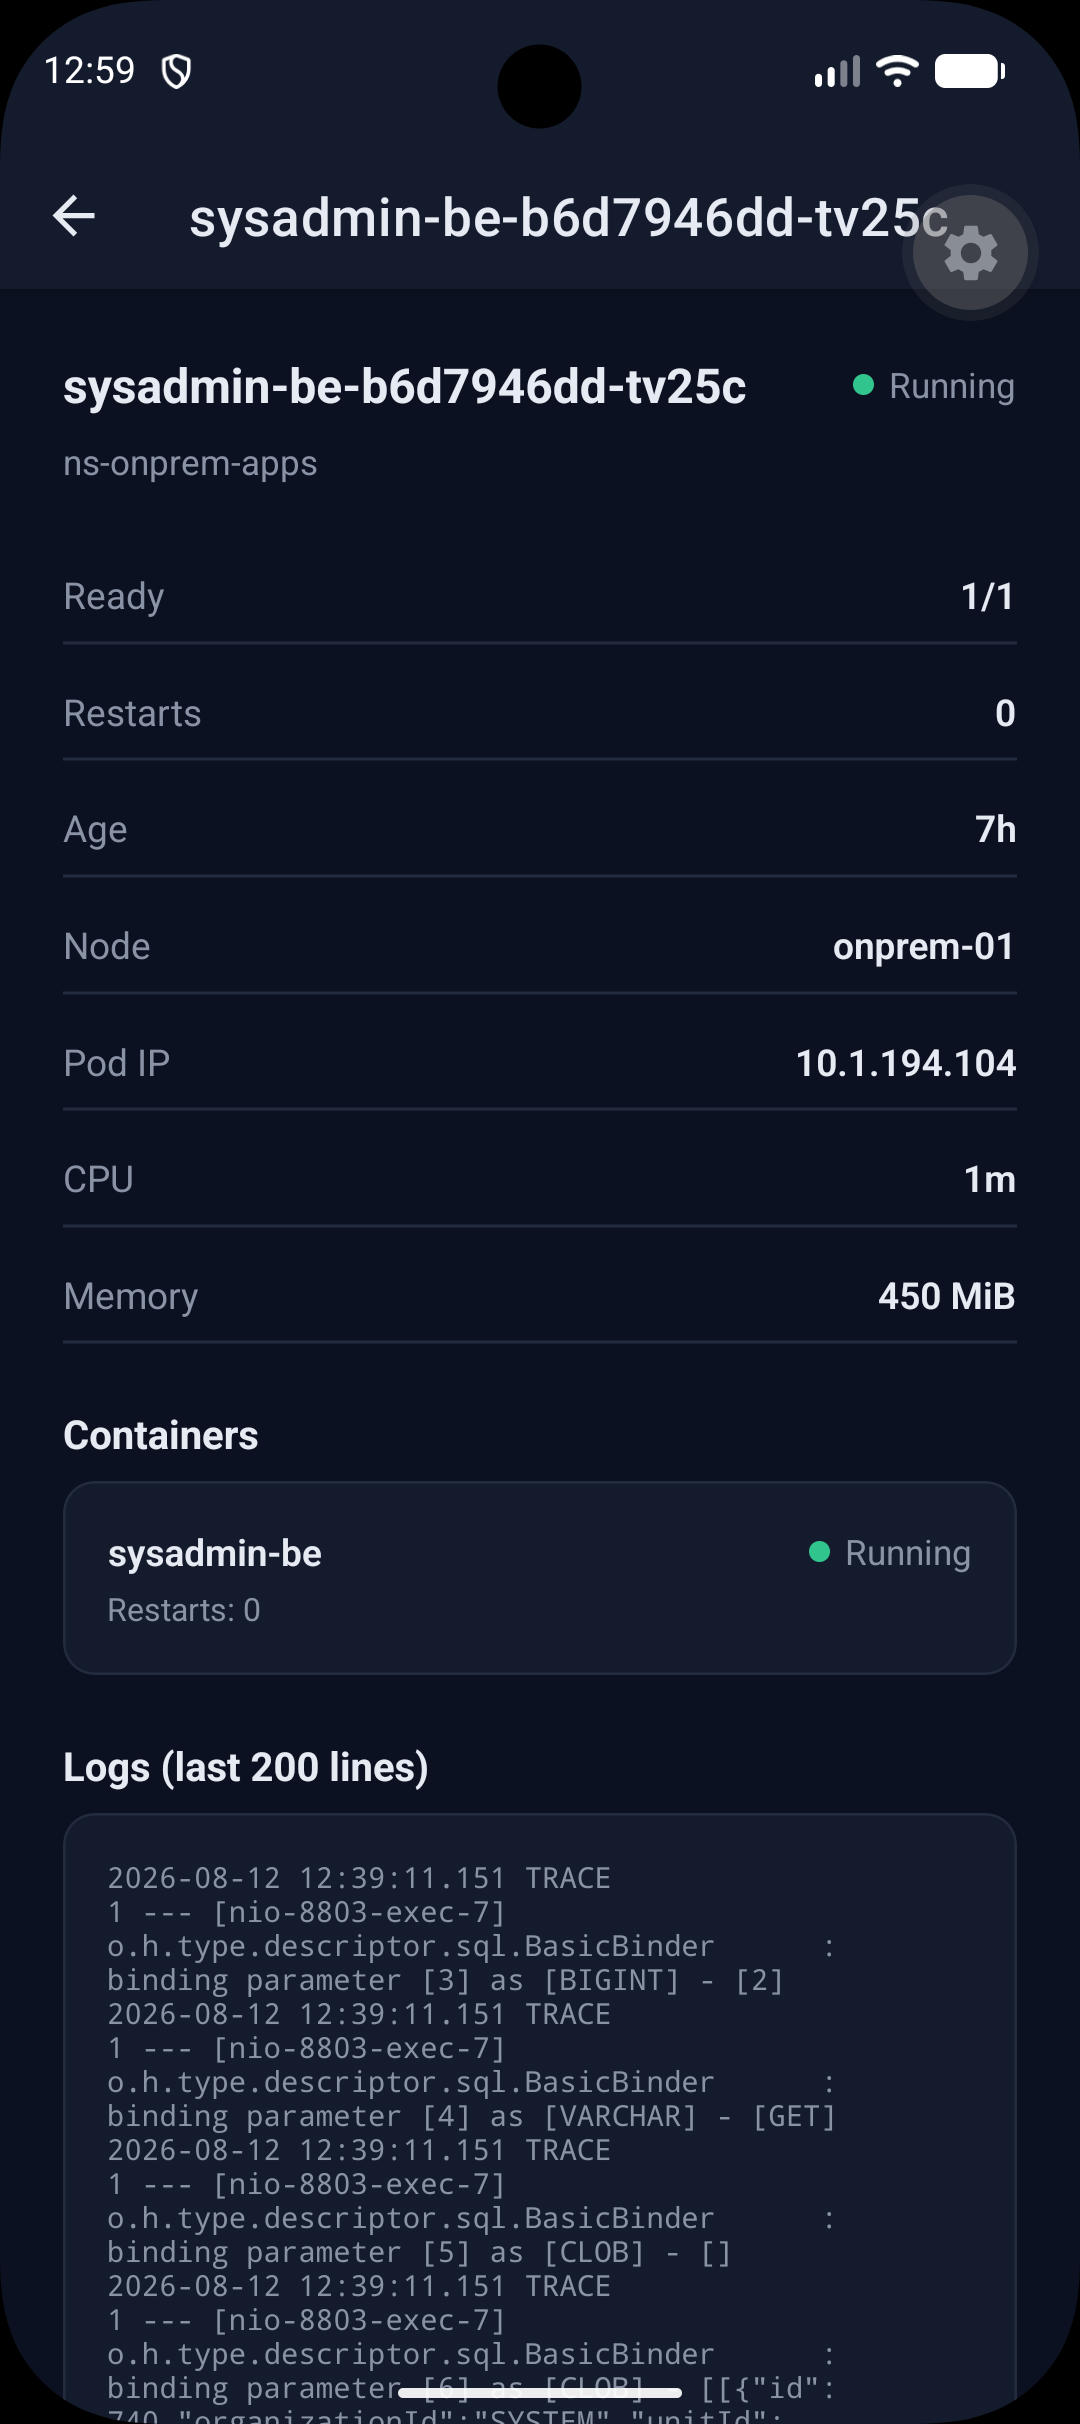
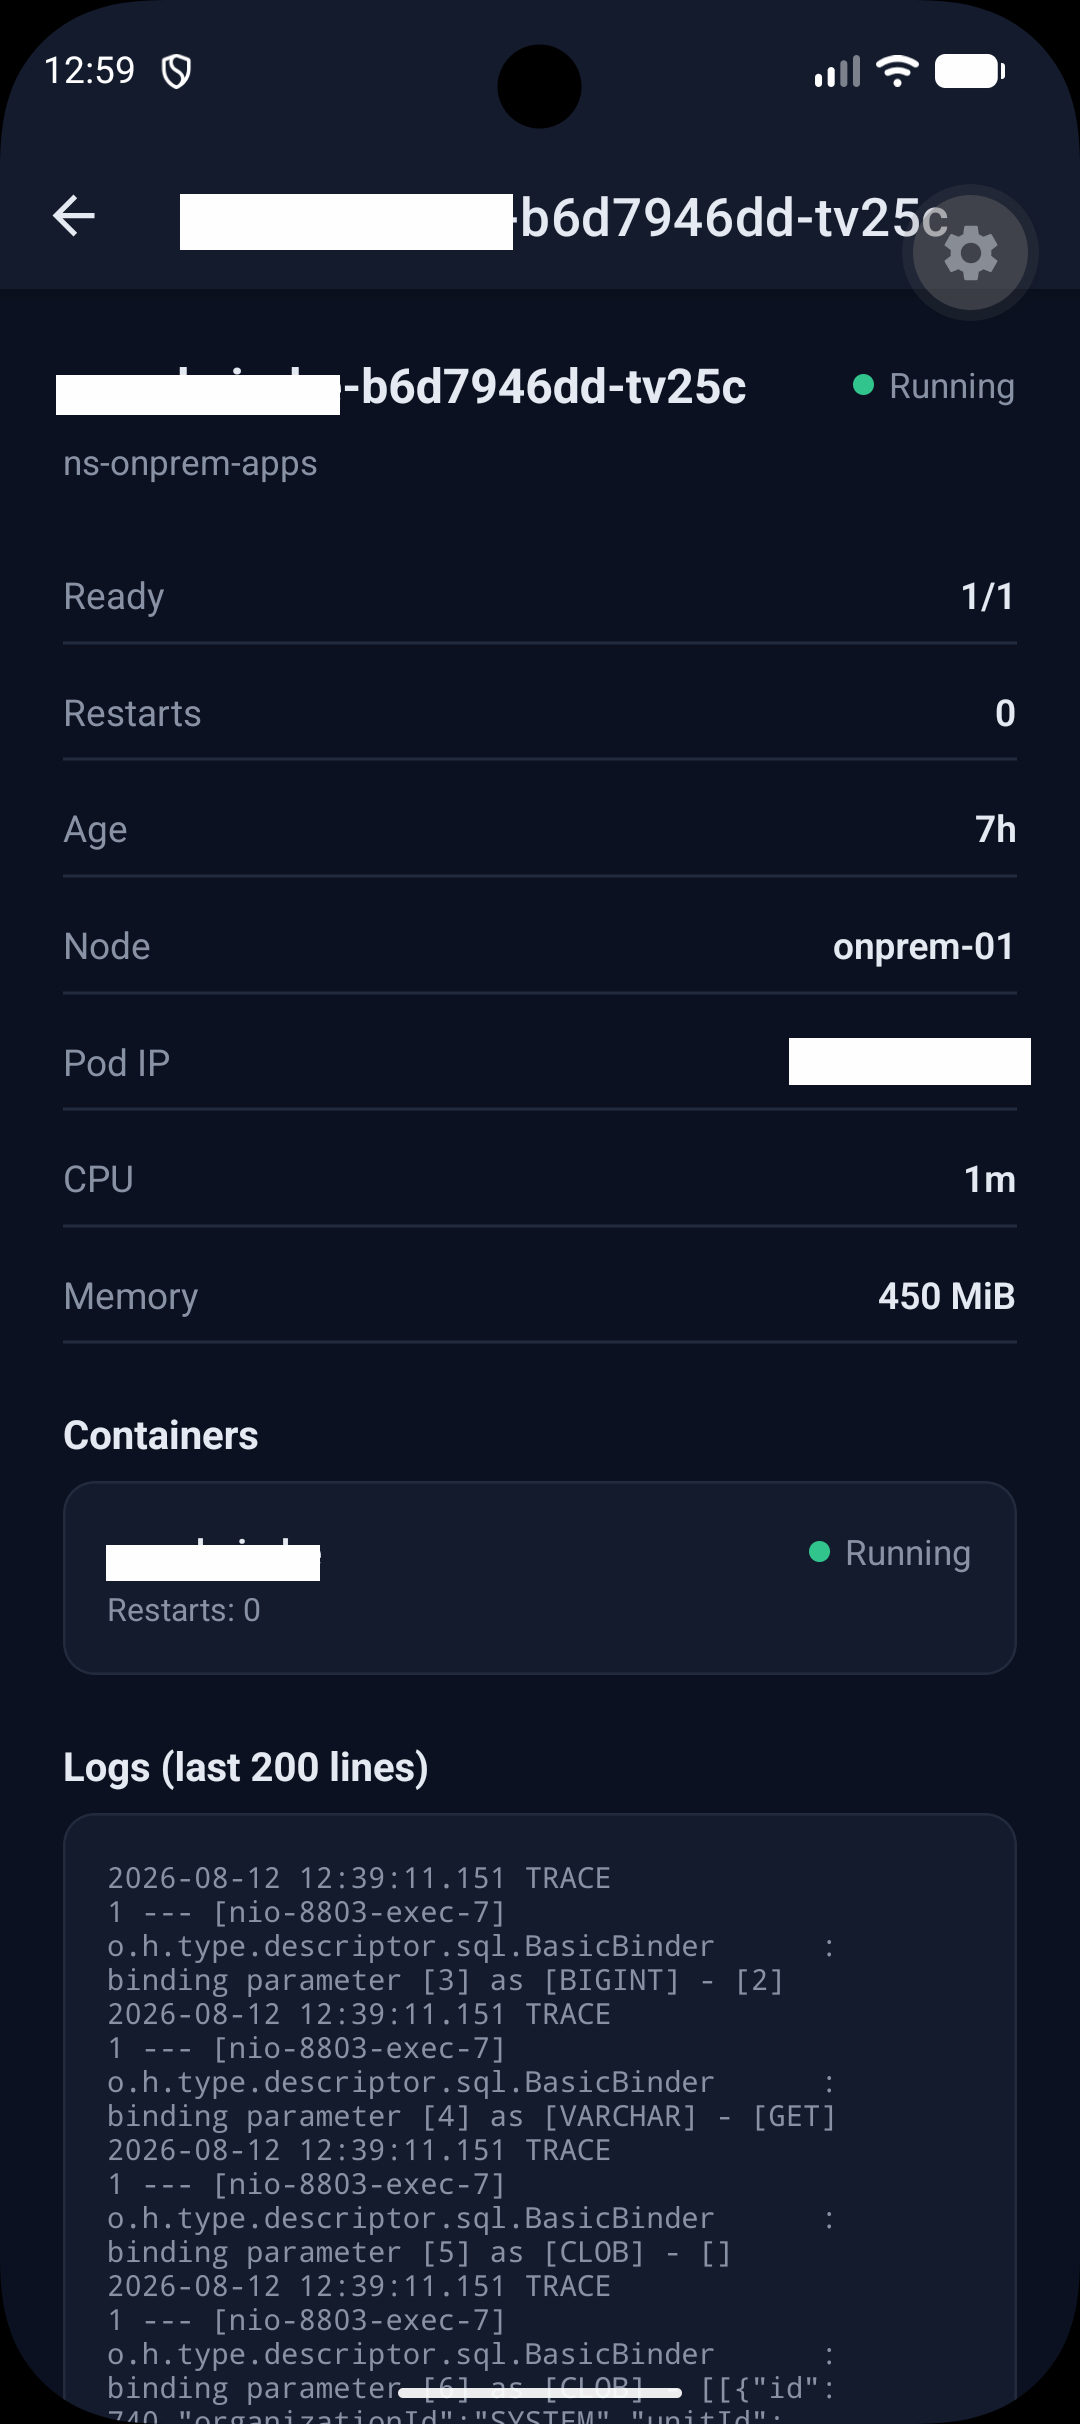
Redact sensitive info in screenshots, add SSH tunnel setup screenshot
Pod names, namespace, and Pod IP were previously visible in the dashboard
and pod-detail screenshots; replaced with redacted versions. Also adds a
screenshot of the SSH tunnel + kubectl proxy setup referenced in the
Architecture section.

diff --git a/README.md b/README.md
@@ -57,6 +57,8 @@ codebase.
 **Every Kubernetes API call is a read (`GET`).** There is no code path anywhere in this
 repository that can create, patch, delete, scale, or exec into anything in the cluster.
 
+![SSH tunnel + kubectl proxy setup](screenshots/ssh-tunnel-setup.png)
+
 ## Tech stack
 
 - **Mobile**: React Native, Expo (SDK 57), TypeScript, React Navigation, native
